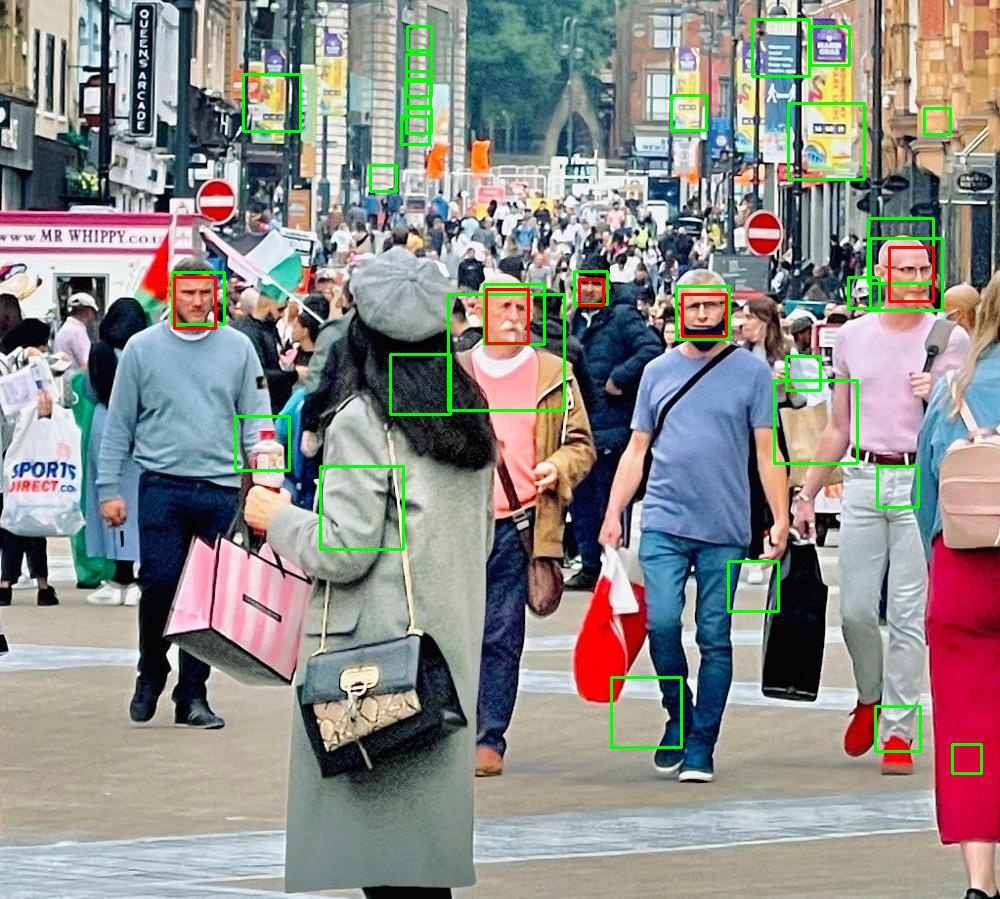
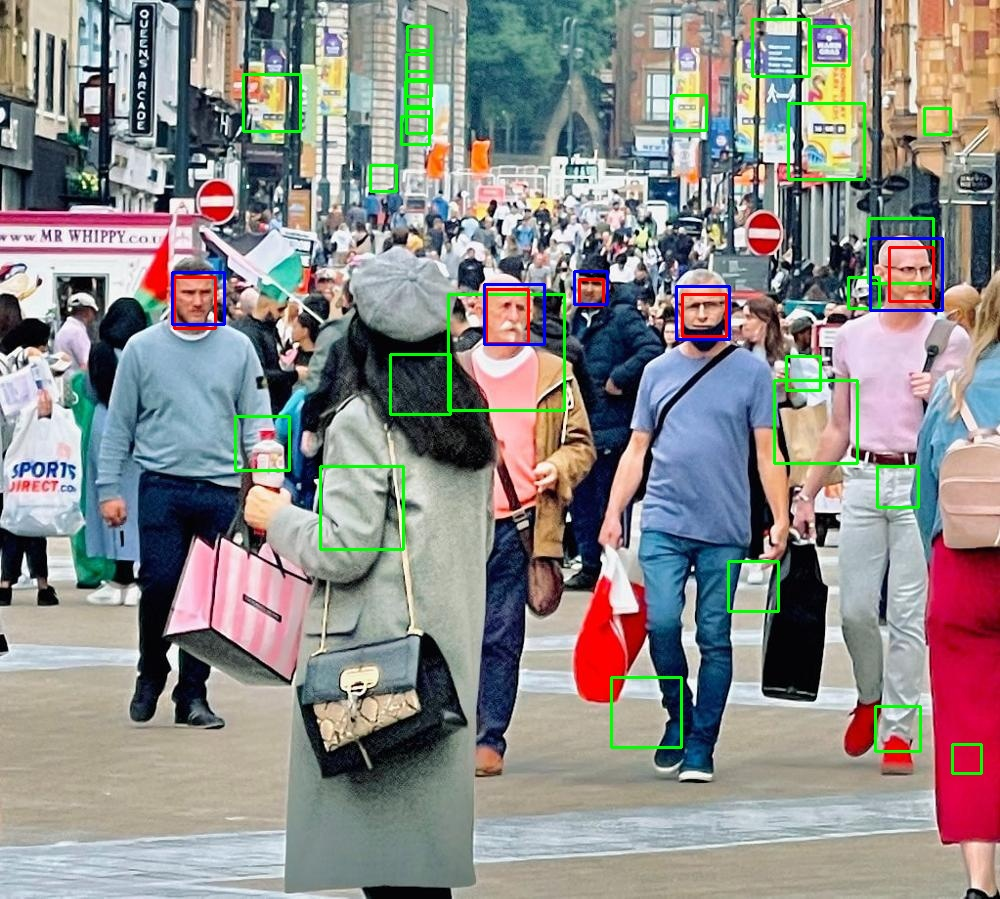
FPR calculator now complte

diff --git a/task_1_iou.py b/task_1_iou.py
@@ -1,7 +1,8 @@
 import numpy as np
 import cv2
 
-NUM = 5
+NUM = 0
+IOU_THRESHOLD = 0.5
 
 class Image():
     def __init__(self, location):
@@ -9,52 +10,57 @@ class Image():
         self.face_cpp_bounding_boxes = self.get_bounding_boxes("face_cpp_bounding_boxes")
         self.ground_truth_bounding_boxes = self.get_bounding_boxes("ground_truth_bounding_boxes")
         
-        self.add_bounding_boxes_to_image(self.face_cpp_bounding_boxes, (0, 255, 0))
-        self.add_bounding_boxes_to_image(self.ground_truth_bounding_boxes, (0, 0, 255))
+        self.add_to_image(self.face_cpp_bounding_boxes, (0, 255, 0))
+        self.add_to_image(self.ground_truth_bounding_boxes, (0, 0, 255))
 
-        self.intersection_over_union()
+        self.successful_intersections = self.calc_successful_intersections()
+        self.add_to_image(self.successful_intersections, (255, 0, 0))
+
+        self.true_positive_rate = self.calc_true_positive_rate()
+        print(self.true_positive_rate)
 
         self.write_image()
-        self.display_image()
 
     def get_bounding_boxes(self, location):
         with open(f"faces_detected/{location}/{NUM}.txt") as f:
             lines = f.readlines()
-        return BoundingBoxes([BoundingBox(*list(map(int, line.strip().split(" ")))) for line in lines])
+        return [BoundingBox(*list(map(int, line.strip().split(" ")))) for line in lines]
 
-    def add_bounding_boxes_to_image(self, bounding_boxes, colour):
-        for box in bounding_boxes.boxes:
-            cv2.rectangle(self.image, (box.x, box.y), (box.x + box.w, box.y + box.h), colour, 2)
+    def add_to_image(self, bounding_boxes, colour):
+        for bounding_box in bounding_boxes:
+            bounding_box.add_to_image(self.image, colour)
 
-    def intersection_over_union(self):
-        for face_cpp_bounding_box in self.face_cpp_bounding_boxes.boxes:
-            for ground_truth_bounding_box in self.ground_truth_bounding_boxes.boxes:
+    def calc_successful_intersections(self):
+        successful_intersections = []
+        for ground_truth_bounding_box in self.ground_truth_bounding_boxes:
+            potential_intersections = []
+            for face_cpp_bounding_box in self.face_cpp_bounding_boxes:
                 x_left = max(face_cpp_bounding_box.x, ground_truth_bounding_box.x)
                 y_top = max(face_cpp_bounding_box.y, ground_truth_bounding_box.y)
                 x_right = min(face_cpp_bounding_box.x + face_cpp_bounding_box.w, ground_truth_bounding_box.x + ground_truth_bounding_box.w)
                 y_bottom = min(face_cpp_bounding_box.y + face_cpp_bounding_box.h, ground_truth_bounding_box.y + ground_truth_bounding_box.h)
-
-                if x_right < x_left or y_bottom < y_top:
-                    # print(0)
-                    pass
-                else:
+                if x_right >= x_left and y_bottom >= y_top:
                     intersection_area = (x_right - x_left) * (y_bottom - y_top)
                     face_cpp_bounding_box_area = face_cpp_bounding_box.w * face_cpp_bounding_box.h
                     ground_truth_bounding_box_area = ground_truth_bounding_box.w * ground_truth_bounding_box.h
                     iou = intersection_area / (face_cpp_bounding_box_area + ground_truth_bounding_box_area - intersection_area)
-                    print(iou)
+                    potential_intersections.append([face_cpp_bounding_box, iou])
+            if potential_intersections:
+                largest_intersection = max(potential_intersections, key = lambda x: x[1])
+                if largest_intersection[1] > IOU_THRESHOLD:
+                    successful_intersections.append(largest_intersection[0])
+        return successful_intersections
+
+    def calc_true_positive_rate(self):
+        true_positives = len(self.successful_intersections)
+        if true_positives:
+            true_positive_rate = true_positives / len(self.ground_truth_bounding_boxes)
+        else:
+            true_positive_rate = None
+        return true_positive_rate
 
     def write_image(self):
         cv2.imwrite(f"faces_detected/task_1_images/{NUM}.jpg", self.image)
-
-    def display_image(self):
-        cv2.imshow("Display window", self.image)
-        cv2.waitKey()
-        cv2.destroyAllWindows()
-
-class BoundingBoxes():
-    def __init__(self, boxes):
-        self.boxes = boxes
 
 class BoundingBox():
     def __init__(self, x, y, w, h):
@@ -62,6 +68,9 @@ class BoundingBox():
         self.y = y
         self.w = w
         self.h = h
+
+    def add_to_image(self, image, colour):
+        cv2.rectangle(image, (self.x, self.y), (self.x + self.w, self.y + self.h), colour, 2)
 
 if __name__ == "__main__":
     Image(f"No_entry/NoEntry{NUM}.bmp")
